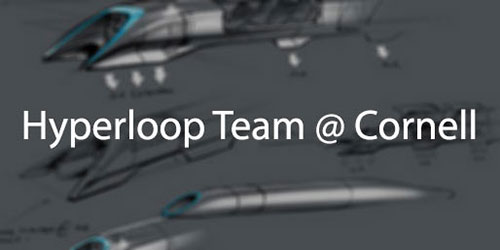
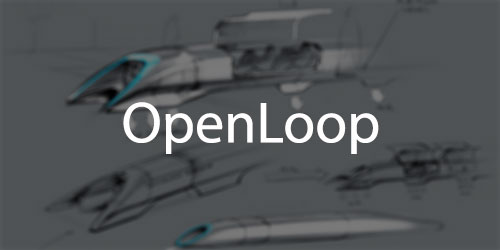
Updated project section and site description.

diff --git a/_includes/projects.html b/_includes/projects.html
@@ -19,15 +19,15 @@
                       </div>
 
                       <div class="col-sm-12 collapse projectbox content-section" id="hyperloop">
-                        <h3>Hyperloop Team @ Cornell</h3>
-                        <p>A group at Cornell University is looking to form a team to compete in the SpaceX Hyperloop pod design compeition. We will be a part of a larger alliance with teams at other universities. Please contact me at <a href="mailto:sl2427@cornell.edu">sl2427@cornell.edu</a> if interested.</p>
+                        <h3>OpenLoop @ Cornell</h3>
+                        <p>OpenLoop is a multi-campus alliance competing in the <a href="http://www.spacex.com/hyperloop">SpaceX Hyperloop Pod Competition</a>. A team at Cornell is working on the technical design and simulation. Our goal is to build a working pod prototype that will compete on the test track. As our team name entails, we plan to make our designs openly available as we develop them. Stay tuned for more info.</p>
                         <hr/>
                       </div>
 
                       <div class="col-sm-12 collapse projectbox content-section" id="zeroground">
                         <h3>Zero Ground Given</h3>
                         <p><emph>Zero Ground Given</emph> is an annual dance competition in Ithaca, NY created by the breakdance clubs of Cornell University and Ithaca College. The first edition of the event took place on May 1-2, 2015, bringing in some of the most skilled dancers in the Northeast. </p>
-                        <p>I led the organization of portion hosted at Cornell, which involves inviting judges, fundraising, logistics, and publicity.</p>
+                        <p>I led the organization of the portion hosted at Cornell, which involves inviting judges, fundraising, logistics, and publicity.</p>
                         <div class="col-md-10 col-md-offset-1">
                           <div id="zggCarousel" class="carousel slide" data-ride="carousel">
                             <!-- Carousel indicators -->
